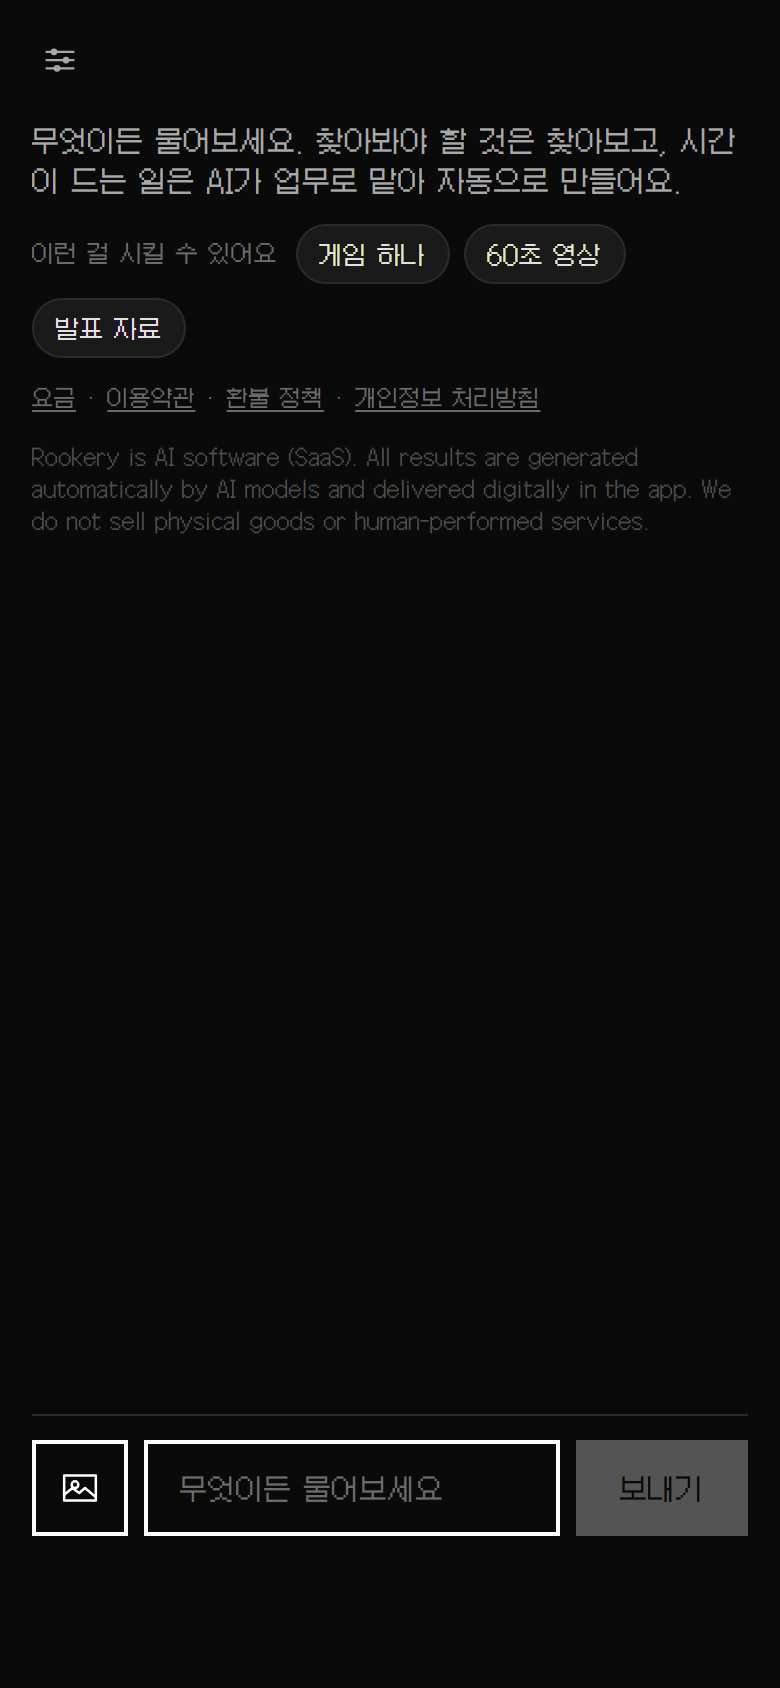
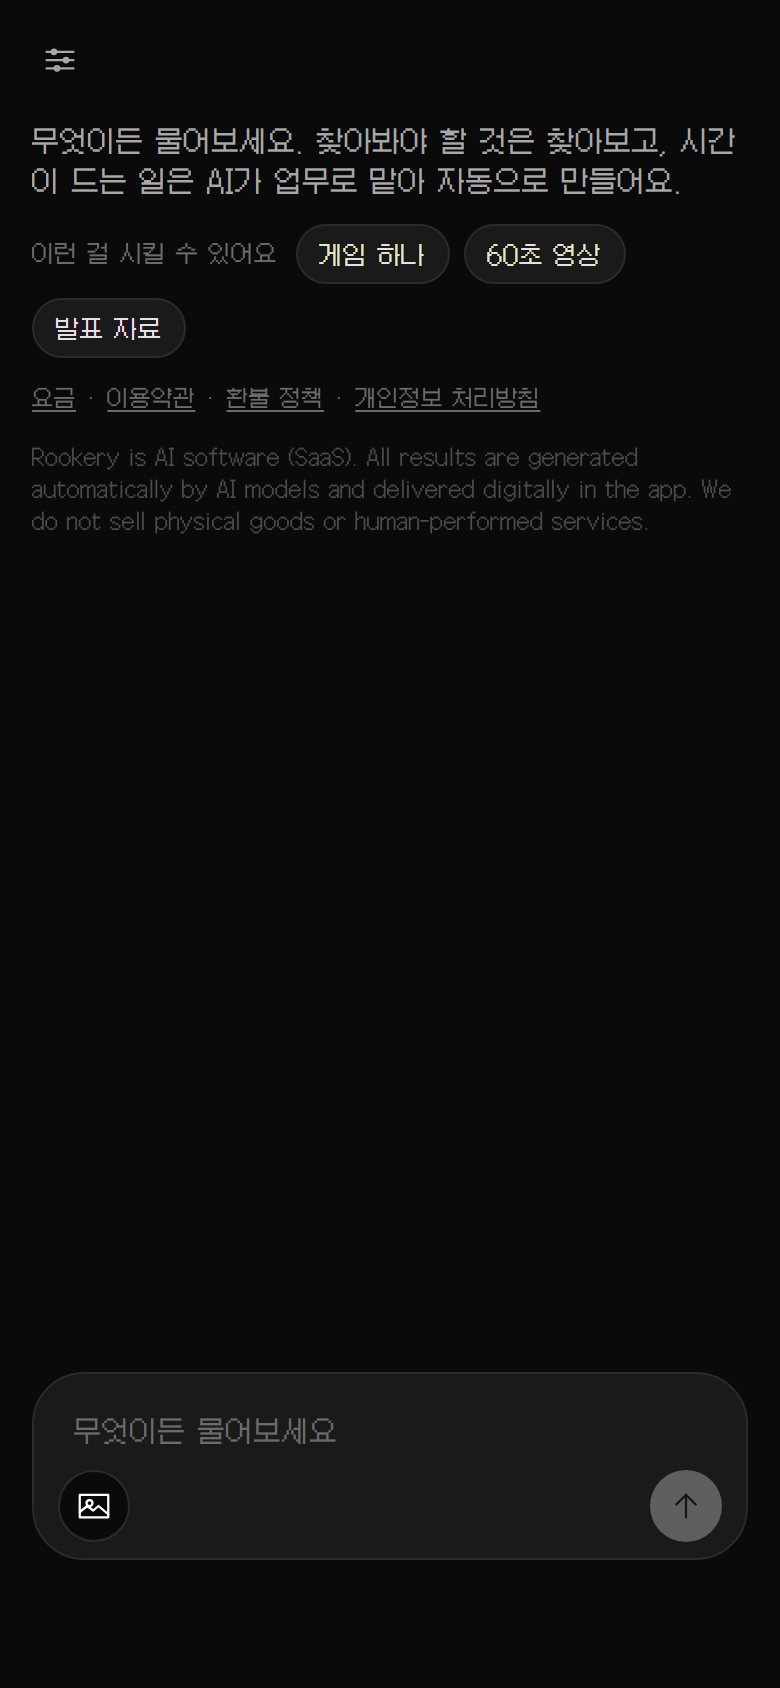
대화창을 입력칸 바로 위로 내림
사장님 10-09 "대화창 좀 내려봐" — 글이 맨 위에 붙고 가운데가 텅 비어 있었다.
스크롤 상자 안에 min-h-full · justify-end 칸을 하나 두어 내용을 아래로 민다.
(justify-end 를 스크롤 상자에 바로 주면 넘칠 때 위쪽이 잘려 못 올라간다.)

Changed region(s): [[0.0308, 0.8318, 0.9846, 0.9242]]

diff --git a/src/app/ask/AskClient.tsx b/src/app/ask/AskClient.tsx
@@ -544,7 +544,14 @@ export default function AskClient({
       </div>
       )}
 
-      <div className="flex-1 space-y-4 overflow-y-auto py-6">
+      {/*
+        10-09 사장님 "대화창 좀 내려봐". 글이 맨 위에 붙고 가운데가 텅 비어 있었다 —
+        대화는 **입력칸 바로 위에서** 시작해야 방금 오간 말이 손 가까이에 있다.
+        `justify-end` 를 스크롤 상자에 바로 주면 넘칠 때 위쪽이 잘려 못 올라간다.
+        그래서 상자는 그냥 스크롤만 맡고, 안쪽 칸이 `min-h-full` 로 키를 채운 뒤 아래로 민다.
+      */}
+      <div className="flex-1 overflow-y-auto py-6">
+        <div className="flex min-h-full flex-col justify-end space-y-4">
         {/*
           빈 화면에 다섯을 세워 뒀다가 뺐다(2026-08-31 사장님 지시). 얼굴은
           **일하는 중일 때** 나오는 것으로 남긴다 — 아무 일도 없는데 서 있으면
@@ -753,6 +760,7 @@ export default function AskClient({
           <Waiting stage={doing} className="text-[var(--rk-400)]" />
         )}
         <div ref={endRef} />
+        </div>
       </div>
 
       {last?.options && last.options.length > 0 && !busy && (
